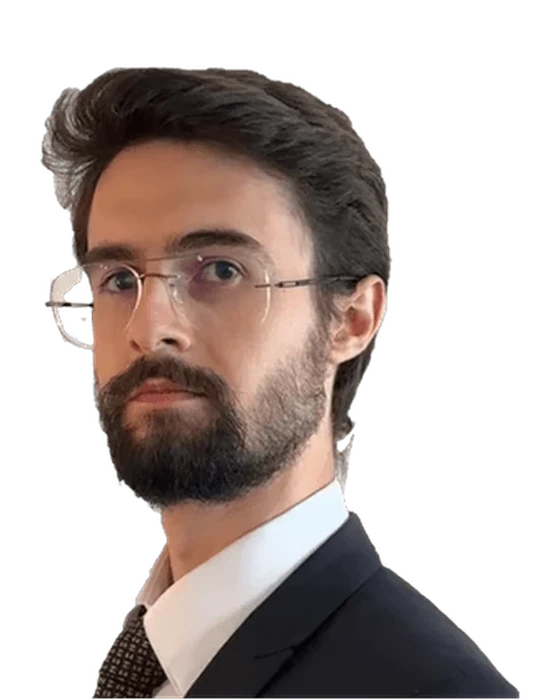
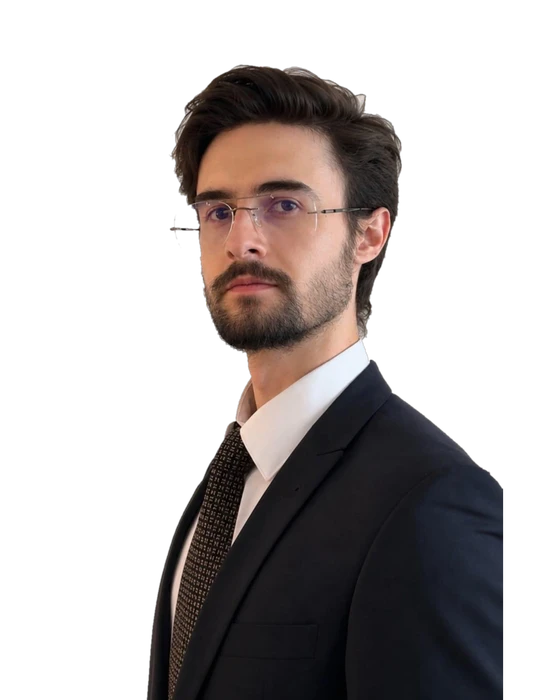
Europe locations map, new Reza portrait
Claude-Session: https://claude.ai/code/session_01TnWve3oiKZAnnVXSdp2RBk

diff --git a/projects.html b/projects.html
@@ -30,7 +30,7 @@
 <section class="sec" id="overview">
   <div class="wrap">
     <div class="proj rv">
-      <div class="map" id="mapbox"><canvas id="map" aria-label="Dot map of the Nordic region"></canvas><span class="ttl mono">Platform overview</span><div class="cap mono"><span>Multi-site Nordic platform</span><span>Fibre to European network corridors</span></div></div>
+      <div class="map" id="mapbox"><canvas id="map" aria-label="Dot map of Europe showing Viking Digital campus locations"></canvas><span class="ttl mono">Platform overview</span><div class="cap mono"><span>Multi-site Nordic platform</span><span>Fibre to European network corridors</span></div></div>
       <div class="ovw">
         <div class="spot"><svg class="ic"><use href="#i-map-pin-area"/></svg><h4>Multi-Site Nordic Platform</h4><p>A diversified portfolio of campuses across Norway and Finland, enabling scalable and flexible infrastructure deployment.</p></div>
         <div class="spot"><svg class="ic"><use href="#i-buildings"/></svg><h4>Large-Scale Development Capability</h4><p>Designed to support high-capacity, phased build-outs aligned with long-term hyperscale, AI and cloud demand.</p></div>
@@ -93,7 +93,7 @@
   </div>
 </footer>
 <div class="drawer" id="drawer" aria-hidden="true"><div class="scrim" id="scrim"></div><aside class="panel" role="dialog" aria-modal="true" aria-labelledby="d-name" style="position:relative"><button class="close" id="dclose" aria-label="Close"><svg class="ic"><use href="#i-x"/></svg></button><div id="dbody"></div></aside></div>
-<script>window.__IMG={'team-tor':'assets/team-tor.webp','team-venkat':'assets/team-venkat.webp','team-lauren':'assets/team-lauren.webp','team-david':'assets/team-david.webp','team-joakim':'assets/team-joakim.webp','team-bjorn':'assets/team-bjorn.webp','team-joe':'assets/team-joe.webp','team-reza':'assets/team-reza.webp','team-glauco':'assets/team-glauco.webp','team-knut':'assets/team-knut.webp'};window.__NORDIC="0000000000000000000000000000000000000000000000000000000000000000000000000000000000000000000000000000,0000000000000000000000000000000000000000000000000000000000000000000000000000000000000000000000000000,0000000000000000000000000000000000000000000000000000000000000000000000000000000000000000000000000000,0000000000000000000000000000000000000000000000000000000000000000000000000000000000000000000000000000,0000000000000000000000000000000000000000000000000000000000000000000000000000000000000000000000000000,0000000000000000000000000000000000000000000000000000000000000000100111000000000000000000000000000000,0000000000000000000000000000000000000000000000000000000000000010000010111100000000000000000000000000,0000000000000000000000000000000000000000000000000000000000000011010111111110000000000000000000000000,0000000000000000000000000000000000000000000000000000000000101011011111111111000000000000000000000000,0000000000000000000000000000000000000000000000000000000000000111011111111110000000000000000000000000,0000000000000000000000000000000000000000000000000000000000011111111111110000003300000000000000000000,0000000000000000000000000000000000000000000000000000000011101111111111111000003330000000000000000000,0000000000000000000000000000000000000000000000000000001001111111111111111111333330000033000000000000,0000000000000000000000000000000000000000000000000001000011111111111111111113333333033333333000000000,0000000000000000000000000000000000000000000000000011011111111111111111111113333333333333333330000000,0000000000000000000000000000000000000000000000000111111111111111111111111133333333333333333333330000,0000000000000000000000000000000000000000000000011011011111111111111111111333333333333333333333333330,0000000000000000000000000000000000000000000000011101111111111111111111111333333333333333333333333333,0000000000000000000000000000000000000000000010011111111111111111111111111333333333333333333333333333,0000000000000000000000000000000000000000000100001111112111111111111111111333333333333333333333333333,0000000000000000000000000000000000000000001100001111112211111111111111111333333333333333333333333333,0000000000000000000000000000000000000000011101011111112221111111111111111333333333333333333333333333,0000000000000000000000000000000000000000000110111211112222211111111111111133333333333333333333333333,0000000000000000000000000000000000000000011101011222222222222111111111111111333333333333333333333333,0000000000000000000000000000000000000001100011111222222222222111111111111111133333333333333333333333,0000000000000000000000000000000000000100000111121222222222222211111111111111133333333333333333333333,0000000000000000000000000000000000000000001111222222222222222211111111111111133333333333333333333333,0000000000000000000000000000000000000000001111222222222222222211111111111111333333330333333333333333,0000000000000000000000000000000000000000000111222222222222222211111111111111333333330000033333333333,0000000000000000000000000000000000000000011112222222222222222221111111111111333333333300000000000000,0000000000000000000000000000000000000000000112222222222222222221111111111111333333333330000000000000,0000000000000000000000000000000000000000111112222222222222222221111111111111133333333333300000000000,0000000000000000000000000000000000000001111112222222222222222222111111111111133333333333333000000000,0000000000000000000000000000000000000011111122222222222222222222111111111111113333333333333000000000,0000000000000000000000000000000000000111111222222222222222222221111111111111111333333333333000000000,0000000000000000000000000000000000000111111222222222222222222221111111111111111333333333333000000330,0000000000000000000000000000000000000101111222222222222222222222111111111111111133333333333000300333,0000000000000000000000000000000000011111122222222222222222222222111111111111111333333333333300000333,0000000000000000000000000000000000011111122222222222222222222222201111111111111333333333333330000033,0000000000000000000000000000000000011111122222222222222222220000000111111111111333333333333330000003,0000000000000000000000000000000000011111122222222222222222220000000011111111111133333333333330000000,0000000000000000000000000000000000111111222222222222222222200000000011111111111333333333333333030000,0000000000000000000000000000000000111111222222222222222222200000000011111111111113333333333333333300,0000000000000000000000000000000001111111222222222222222222000000001011111111111113333333333333333333,0000000000000000000000000000001111111112222222222222222222000000000111111111111113333333333333333333,0000000000000000000000000000000011111112222222222222222222000000001111111111111111333333333333333333,0000000000000000000000000000000111111122222222222222222222000000001111111111111111133333333333333333,0000000000000000000000000000001111111112222222222222222222200000011111111111111111133333333333333333,0000000000000000000000000000011111111112222222222222222222000000011111111111111111333333333333333333,0000000000000000000000000000111111111112222222222222222220000000111111111111111111133333333333333333,0000000000000000000000000001110111122222222222222222222220000000111111111111111111113333333333333333,0000000000000000000000000001110111122222222222222222222220000001111111111111111111111133333333333333,0000000000000000000000011011101111222222222222222222222200000011111111111111111111111113333333333333,0000000000000000000000001111111111222222222222222222220000000111111111111111111111111113333333333333,0000000000000000000001111111111112222222222222222222200000000111111111111111111111111113333333333333,0000000000000000000111011111111112222222222222222222000000111111111111111111111111111113333333333333,0000000000000000001111111111111112222222222222222220000000011111111111111111111111111133333333333333,0000000000000000111111111111111112222222222222222220000000011111111111111111111111111133333333333333,0000000000000011111111111111111112222222222222222000000000111111111111111111111111111333333333333333,0000000000000111111111111111111112222222222222222200000000111111111111111111111111111333333333333333,0000000000000111111111111111111112222222222222220000000000011111111111111111111111113333333333333333,0000000000001100111111111111111112222222222222220000000000011111111111111111111111113333333333333333,0000000000001111111111111111111112222222222222220000000000011111111111111111111111113333333333333333,0000000000001111111111111111111112222222222222220000000000011111111111111111111111133333333333333333,0000000000001111111111111111111112222222222222220000000000001111111111111111111111333333333333333333,0000000000001111111111111111111111222222222222200000000000001111111111111111111111333333333333333333,0000000000011111101111111111111111222222222222200000000000001111111111111111111113333333333333333333,0000000000011111111111111111111111222222222222200000000000001111111111111111111133333333333333333333,0000000000010111111111111111111111222222222222200000000000001111111111111111111130333333333333333333,0000000000111111111111111111111112222222222222200000000000001111111111111111111003333333333333333333,0000000000111100111111111111111112222222222222220000000000001111111111111111000000033333333333333333,0000000000001011111111111111111112222222222222220000000000011111111111111100000000000003333333333333,0000000000010111111111111111111112222222222222222200000000000101111111110000000000003333333333333333,0000000000101111111111111111111112222222222222222220000000000000111111000000000000033333333333333333,0000000000011111111111111111111112222222222222222220000000000001001100000000000003333333333333333333,0000000000111111111111111111111122222222222222222222000000000000010000000000000003333333333333333333,0000000000110111111111111111111222222222222222222222200000000000000000000333300333333333333333333333,0000000000001111111111111101112222222222222222222222000000000000000000033333333333333333333333333333,0000000000001111111111111101112222222222222222222220000000000000000003333333333333333333333333333333,0000000000111111111111111101112222222222222222222202000000000000000333333333333333333333333333333333,0000000000111111111111111000012222222222222222222220000000000000000333333333333333333333333333333333,0000000000011111111111000000212222222222222222222200000000000003330333333333333333333333333333333333,0000000000011111111111000000222222222222222222222000000000000000300033333333333333333333333333333333,0000000000001111111100000000222222222222222222200000000000000000333033333333333333333333333333333333,0000000000000111111000000000222222222222222222000000000000000033330033033333333333333333333333333333,0000000000000001100000000000022222222222222222000000000000000003330000033333333333333333333333333333,0000000000000000000000000000022222222222222222000000000000000000000000033333333333333333333333333333,0000000000000000000000000000022222222222222222000000000000000003000000033333333333333333333333333333,0000000000000000000000000000022222222222222222000000020000000000000000033333333333333333333333333333,0000000000000000000000022000002222222222222220000002200000000000300000033333333333333333333333333333,0000000000000000000000022000002222222222222220000002200000000033330000033333333333333333333333333333,0000000000000000000000222000002222222222222222000022200000000033333000033333333333333333333333333333,0000000000000000002222222000000222222222222220000022000000000333333300333333333333333333333333333333,0000000000000000022002220000000222222222222220200002000000000333333333333333333333333333333333333333,0000000000000000000222220000000222222222222220000000000000000333333333333333333333333333333333333333,0000000000000000022222220000000022222222222222000000000000003333333333333333333333333333333333333333,0000000000000000222222222200000002222222222202000000000000003333333333333333333333333303333333333333,0000000000000000222222222200000022222222222200000000000000003333333333333333333333330000033000333333,0000000000000000222222220000000222222222222200000000000000000333333333333333333333300000000000033333,0000000000000000222222200000002022222220202000000000000000000333333333333333333330000000000000033333,0000000000000000222222002000022022222200000000000000000000000333333333333333333300000000000000003333,0000000000000000222222000022022002222000000000000000000000000333333333333333333300000000000000003333,0000000000000000022220222022222202222000000000000000000000000333333333333333333330000000000000003333,0000000000000000022220222022220022222000000000000000000000000033333333333333333330000000000000000333,0000000000000000022200222022222000000000000000000000000000000033333333333333333000000000000000000333,0000000000000000022222000000200000000002000000000000000000000033333333333333330000000000000000000033,0000000000000000333330002000222000000002000000000000000000030033333333333333330000000000000000000000,0000000000000000003333000022200000000000000000000000000003333333333333333333330000000000000000000000,0000000000000000003330000000000000000000000000003333300003333333333333333333330000000000000000000000,0000000000000000033333300300000003300000000000333333000003333333333333333333300000000000000000000000";</script>
+<script>window.__IMG={'team-tor':'assets/team-tor.webp','team-venkat':'assets/team-venkat.webp','team-lauren':'assets/team-lauren.webp','team-david':'assets/team-david.webp','team-joakim':'assets/team-joakim.webp','team-bjorn':'assets/team-bjorn.webp','team-joe':'assets/team-joe.webp','team-reza':'assets/team-reza.webp','team-glauco':'assets/team-glauco.webp','team-knut':'assets/team-knut.webp'};window.__EU={"rows":"000000002222222222222222222222222222222222222222200022200000000000000000000000000000000000000000000000000000000000000000000000000000000222002222222222,000000000222222222222222222222222222222222222222220022200000000000000000000000000000000000000000000000000000000000000000000000000000000020002222222222,000000022222222222222222222222222222222222222222222002000000000000000000000000000000000000000000000000000000000000000000000000000000000000022222222222,000000022222222222222222222222222222222222222222222220000000000000000000000000000000000000000000000000000000000000000000000000000000000000022222222222,000000022222222222222222222222222222220022222222222000000000000000000000000000000000000000000000000000000000000000000000000000000000000000022222222222,000000222222222222222222202202222222000000002222000000000000000000000000000000000000000000000000000000000000101011000000000000000002222200222222222222,000002222222222222222220000022202200000000000000000000000000000000000000000000000000000000000000000000000001011111100000000000000000022000222222222222,000000222222222222222220000020000000000000000000000000000000000000000000000000000000000000000000000000000111011110002200000000000000022000022222222222,000000222222222222222000000000000000000000000000000000000000000000000000000000000000000000000000000000000011011111012222222220000000002000222222222222,000000222222222220200000000000000000000000000000000000000000000000000000000000000000000000000000000000001111111111122222222222222000002222222222222222,000000002222222220000000000000000000000000000000000000000000000000000000000000000000000000000000000001001111111111222222222222222200000222222222222222,000000022222222000000000000000000000000000000000000000000000000000000000000000000000000000000000000000111111111111222222222222222220000022222222222222,000000022222222000000000000000000000000000000000000000000000000000000000000000000000000000000000000001111111111111222222222222222220002022222222222222,000000022222200000000000000000000000000000000000000000000000000000000000000000000000000000000000000101111111111111222222222222222220022222222222222222,000000022222000000000000000000000000000000000000000000000000000000000000000000000000000000000000010011112111111111112222222222222220022222222222222222,000000002200000000000000000000000000000000000001000000000000000000000000000000000000000000000000101011122221111111111222222222222200222222222222222222,000000000000000000000000000000000000000000001111000000000000000000000000000000000000000000000000010012222222111111112222022222222000222222222222222222,000000000000000000000000000000000000000000001111000000000000000000000000000000000000000000000001101112222222111111112222220000000000222222222222222222,000000000000000000000000000000000000000000000001010110010000000000000000000000000000000000000010011222222222211111112222222200000000022222222222222222,000000000000000000000000000000000000000000011011111111111000000000000000000000000000000000000000001222222222211111111222222220000000022222222222222222,000000000000000000000000000000000000000000000111111111111000000000000000000000000000000000000000011222222222221111111122222220000222222222222222222222,000000000000000000000000000000000000000000000011111111111000000000000000000000000000000000000000111222222222211111111112222222000222222222222222222222,000000000000000000000000000000000000000000000111111111111100000000000000000000000000000000000000111222222222221111111112222222000002222222222222222222,000000000000000000000000000000000000000000001111111111111100000000000000000000000000000000000001112222222222222111111112222222202002222222222222222222,000000000000000000000000000000000000000000000011111111111000000000000000000000000000000000000000112222222222000001111112222222222222222222222222222222,000000000000000000000000000000000000000000000011111111110000000000000000000000000000000000000011122222222222000001111111222222222222222222222222222222,000000000000000000000000000000000000000000000000110000000000000000000000000000000000000000000111122222222220000011111111122222222222222222222222222222,000000000000000000000000000000000000000000000000000000000000000000000000000000000000000000000011122222222220000011111111122222222222222222222222222222,000000000000000000000000000000000000000000000000000000000000000000000000000000000000000000000011122222222222000111111111122222222222222222222222222222,000000000000000000000000000000000000000000000000000000000000000000000000000000000000000000000111122222222222000111111111111222222222222222222222222222,000000000000000000000000000000000000000000000000000000000000000000000000000000000000000000001111122222222220000111111111111122222222222222222222222222,000000000000000000000000000000000000000000000000000000000000000000000000000000000000000000001111122222222220001111111111111122222222222222222222222222,000000000000000000000000000000000000000000000000000000000000000000000000000000000000000000011112222222222200001111111111111222222222222222222222222222,000000000000000000000000000000000000000000000000000000000000000000000000000000000000000000011122222222222000011111111111111222222222222222222222222222,000000000000000000000000000000000000000000000000000000000000000000000000000000000000000001111122222222220000111111111111111222222222222222222222222222,000000000000000000000000000000000000000000000000000000000000000000000000000000000000000111111112222222200000011111111111112222222222222222222222222222,000000000000000000000000000000000000000000000000000000000000000000000000000000000000001111111112222222200000011111111111112222222222222222222222222222,000000000000000000000000000000000000000000000000000000000000000000000000000000000000011111111112222222200000011111111111122222222222222222222222222222,000000000000000000000000000000000000000000000000000000000000000020000000000000000000111111111112222222200000001111111111122222222222222222222222222222,000000000000000000000000000000000000000000000000000000000000000000000000000000000001011111111112222222200000001111111111102222222222222222222222222222,000000000000000000000000000000000000000000000000000000000000000000000000000000000001111111111112222222200000001111111100000002222222222222222222222222,000000000000000000000000000000000000000000000000000000000000000000000000000000000001111111111111222222200000001111111000000222222222222222222222222222,000000000000000000000000000000000000000000000000000000000000000000000000010000000001110111111112222222200000000111110000002222222222222222222222222222,000000000000000000000000000000000000000000000000000000000000000000000000100000000001111111111112222222222000000001000022222222222222222222222222222222,000000000000000000000000000000000000000000000000000000000000000000000000000000000001101111111111222222222200000000002222222222222222222222222222222222,000000000000000000000000000000000000000000000000000000000000000000000000000000000000111111111111222222222200000000022222222222222222222222222222222222,000000000000000000000000000000000000000000000000000000000000000000000000000000000001111111111112222222222200000000022222222222222222222222222222222222,000000000000000000000000000000000000000000000000000000000000000000000000000000000001111111110122222222222200000000022222222222222222222222222222222222,000000000000000000000000000000000000000000000000000000000000000000000000000000000001011111110112222222222000000002000222222222222222222222222222222222,000000000000000000000000000000000000000000000000000000000000001001111000000000000000111111100022222222200000000000000222222222222222222222222222222222,000000000000000000000000000000000000000000000000000000000000010001110000000000000000111111000022222222200000000000000222222222222222222222222222222222,000000000000000000000000000000000000000000000000000000000000001011100000000000000000011110000022222222200002000002200222222222222222222222222222222222,000000000000000000000000000000000000000000000000000000000000101011111100000000000000000000000022222222200020000022220222222222222222222222222222222222,000000000000000000000000000000000000000000000000000000000000000111111100000000000000000000000002222222220020000022222222222222222222222222222222222222,000000000000000000000000000000000000000000000000000000000000010111111100000000000000000000022002222222200000000022222222222222222222222222222222222222,000000000000000000000000000000000000000000000000000000000000001111111000000000000000000000220000222222200000000022222222222222222222222222222222222222,000000000000000000000000000000000000000000000000000000000000001111110000000000000000000002220000022222200000000022222222222222222222222222222222222222,000000000000000000000000000000000000000000000000000000000000010011000000000000000000000022222000022222200000000022222222222222222222222222222222222222,000000000000000000000000000000000000000000000000000000000000001011111000000000000000000022220000022220000000000002222222222222222222222222222222222222,000000000000000000000000000000000000000000000000000000000221100011111100000000000000000022220002222200000000000002222222222222222222222222222222222222,000000000000000000000000000000000000000000000000000000000211110111111100000000000000000022200022022200000000000002222222222222222222222222222222222222,000000000000000000000000000000000000000000000000000002222111110000111100000000000000000002202022000002000000000222222222222222222222222222222222222222,000000000000000000000000000000000000000000000000000002222222110000111100000000000000000002220202200000000022000222222222222222222222222222222222222222,000000000000000000000000000000000000000000000000000002222222000200111110000000000000000001110020001000002222222222222222222222222222222222222222222222,000000000000000000000000000000000000000000000000000000222222000000011111000000000000000000110000011000022222222222222222222222222222222222222222222222,000000000000000000000000000000000000000000000000000002222222000000111111000000000000000000111101111102222222222222222222222222222222222222222222222222,000000000000000000000000000000000000000000000000000000222222000111111111000000000000000001111111111122222222222222222222222222222222222222222222222222,000000000000000000000000000000000000000000000000000222222222000111111111100000000000001101111111111112222222222222222222222222222222222222222222222222,000000000000000000000000000000000000000000000000000222222220000011111111000000000002221111111111111112222222222222222222222222222222222222222222222222,000000000000000000000000000000000000000000000000000022200000000111111111111000000022221111111111111112222222222222222222222222222222222222222222222222,000000000000000000000000000000000000000000000000000000000000011111111111111000000222221111111111111112222222222222222222222222222222222222222222222222,000000000000000000000000000000000000000000000000000000000000010111111111111000000222221111111111111111222222222222222222222222222222222222222222222222,000000000000000000000000000000000000000000000000000000000000000010111111110000002222211111111111111111222222222222222222222222222222222222222222222222,000000000000000000000000000000000000000000000000000000000000001101111111100000022222111111111111111111222222222222222222222222222222222222222222222222,000000000000000000000000000000000000000000000000000000000000001111111111110000202222111111111111111111122222222222222222222222222222222222222222222222,000000000000000000000000000000000000000000000000000000000000111100110111100222222222111111111111111112122222222222222222222222222222222222222222222222,000000000000000000000000000000000000000000000000000000000000000000000000002222222222111111111111111122222222222222222222222222222222222222222222222222,000000000000000000000000000000000000000000000000000000000000000000000000002222222222111111111111111222222222222222222222222222222222222222222222222222,000000000000000000000000000000000000000000000000000000000000000000000000002222222222111111111111122222222222222222222222222222222222222222222222222222,000000000000000000000000000000000000000000000000000000000000000000020002222222222222111111111111112222222222222222222222222222222222222222222222222222,000000000000000000000000000000000000000000000000000000000000000000022202222222222222211111111111112222222222222222222222222222222222222222222222222220,000000000000000000000000000000000000000000000000000000000000020200022222222222222222211111111111111222222222222222222222222222222222222222222200222222,000000000000000000000000000000000000000000000000000000000000022222222222222222222222222111111111111122222222222222222222222222222222222222220022200222,000000000000000000000000000000000000000000000000000000000000222222222222222222222222222211111111111112222222222222222222222222222222222222220000002222,000000000000000000000000000000000000000000000000000000000000002222222222222222222222222211111111111122222222222222222222222222222222222222220000022222,000000000000000000000000000000000000000000000000000000000000000222222222222222222222222111111111111222222222222222222222222222222222222222200000000022,000000000000000000000000000000000000000000000000000000000000000022222222222222222222222111111111111222222222222222222222222222222222222222000000000022,000000000000000000000000000000000000000000000000000000000000000002222222222222222222222122211111222222222222222222222222222222222222222222200000000000,000000000000000000000000000000000000000000000000000000000000000002222222222222222222222222222222222222222222222222222222222222222222222222200000000000,000000000000000000000000000000000000000000000000000000000000000002222222222222222222222222222221112222222222222222222222222222222222222222000000000000,000000000000000000000000000000000000000000000000000000000000000000022222222222222222222222222211111112222222222222222222222222222222222222000000000000,000000000000000000000000000000000000000000000000000000000000000000022222222222222222222222222111111112222222222222222222222222222222222220000000000000,000000000000000000000000000000000000000000000000000000000000000000022222222222222222222211211111111112222222222222222222222222222222222222000000000000,000000000000000000000000000000000000000000000000000000000000000000022222222222222222211111111111111100222222222222222222222222222222222222000000000000,000000000000000000000000000000000000000000000000000000000000000000202222222222222222221111111111110002202222222222222222222222222222222220000000000000,000000000000000000000000000000000000000000000000000000000000000000222222222222222222221111111111110000200222222222222222222222222222222220000000000000,000000000000000000000000000000000000000000000000111000000000000000222222222222222222211111111111110000020222222222222222222222222222222220000000000002,000000000000000000000000000000000000000000000011111111000000000000222222222222222222211111111111110000000222222222222222222222222222222220000000000022,000000000000000000000000000000000000000000000011111111111000000002222222222222222222221110011111111000000022222222222222222222222222222220000000000222,000000000000000000000000000000000000000000000011111111111111110002222222222222222222222110000111111100000002222222222222222222222222222222000000000222,000000000000000000000000000000000000000000000011111111111111111112222222222222222222220000000011111111000000022222222222222222222222222222200000222222,000000000000000000000000000000000000000000000011111111111111111111222222222220000222200000000011111111000000000022222222222222222222222222222022222222,000000000000000000000000000000000000000000000011111111111111111111112222222200000002000000000011111111100000000000222222222222222222222222200002222222,000000000000000000000000000000000000000000000011111111111111111111111111222200000000000000020001111111100000000000002222222222222222222222000222222222,000000000000000000000000000000000000000000000011111111111111111111111111112100000000000000220000111111110000000000000222222222222222222220002222222222,000000000000000000000000000000000000000000000111111111111111111111111111111100000000000000220000011111111100100000000222222222222200000022222222222222,000000000000000000000000000000000000000000000111111111111111111111111111111100000000000000220000000111111111000000000222222222222000000222222222222222,000000000000000000000000000000000000000000001111111111111111111111111111110000000000000000220000000011111111110000000022222222222000000222222222222222,000000000000000000000000000000000000000000001111111111111111111111111110000000000000000000000000000000011111111100000222222222000200000022222222222222,000000000000000000000000000000000000000000011111111111111111111111111000000000000000000000010000000000001111111111000022222222200000000020222222222222,000000000000000000000000000000000000000000111111111111111111111111111000000000000000000001110000000000000011111000100002222222200000000000222222222222,000000000000000000000000000000000000000000111111111111111111111111110000000000000000000001111000000000000011111000100000222222202200000000222222222222,000000000000000000000000000000000000000000111111111111111111111111100000000000000000000001110000000000000000111000000000022222222000000022222222222222,000000000000000000000000000000000000000000011111111111111111111111000000001000000000000001111000000000000000011100000000000222222020000000002222222222,000000000000000000000000000000000000000000011111111111111111111111000000001100000000000001110000000000000000011100000000000222222220200000002222222222,000000000000000000000000000000000000000000011111111111111111111111000010000000000000000001110000000000000000001100000000000202000220000000000222222222,000000000000000000000000000000000000000000111111111111111111111111100000000000000000000000100000000000000000011000000000022022222000000000000002002220,000000000000000000000000000000000000000000111111111111111111111110000000000000000000000000000000000000000000011000000000002022220200000002000000000000,000000000000000000000000000000000000000000001001111111111111111110000000000000000000000000000000000000000000010000000000000002222000000000000002000000,000000000000000000000000000000000000000000000000111111111111111100000000000000000000000000000000000011111111000000000000000002222200000000000000000000,000000000000000000000000000000000000000000000000111111111111110000000000000000000000000000000000000011111111000000000000000000200200000000000000000000,000000000000000000000000000000000000000000000000011111111111100000000000000000000000000000000000000000111111000000000000000000000000000000000000000000,000000000000000000000000000000000000000000000000011000000000000000000000000000000000000000002000000000000111000000000000000000000000000000000000000000,000000000000000000000000000000000000000000000000000000000000000000000000000000000002002000222200200000000001000000000000000000000000220222020000000000,000000000000000000000000000000000000000000000000022000000000000000002222222222220222222222222222000000000000000000000000000000000000222222000000000000,000000000000000100000000000000000000000000000000222000000000000000222222222222222222222222222220000000000000000000000000000000000000000000000000000000,000000000000000000000000000000000000000000000002222200000000000222222222222222222222222222222220000000000000000000000000000000000000000000000000000000,000000000000000000000000000000000000000000000002222222222000002222222222222222222222222222222222000000000000000000000000000000000000000000000000000000,000000000000000000000000000000000000000000000022222222222222222222222222222222222222222222222222200000000000000000000000000000000000000000000000000000,000000000000000000000000000000000000000000000222222222222222222222222222222222222222222222222222200000000000000000000000000000000000000000000000000000","pins":[["Norway",0.5663,0.2932],["Norway",0.5811,0.2791],["Norway",0.5995,0.2673],["Norway",0.6135,0.2616],["Finland",0.7538,0.1992],["Finland",0.7459,0.2122],["Finland",0.7356,0.2377],["Spain",0.3228,0.7761],["Spain",0.3726,0.8065],["Spain",0.3989,0.8409],["Portugal",0.286,0.8607],["United Kingdom",0.4646,0.4751],["United Kingdom",0.4507,0.5352],["Germany",0.6096,0.5795],["Italy",0.641,0.7697],["Iceland",0.3464,0.1556]]};</script>
 <script src="app.js"></script>
 </body>
 </html>

diff --git a/app.js b/app.js
@@ -241,24 +241,38 @@ function Campus(cv,opt){
  onVisible(sec,v=>{vis=v;if(v&&!raf){cp.size();raf=requestAnimationFrame(loop)}});cp.size();setAct(0)})();
 
 /* ---------- Nordic dot map (Natural Earth 1:50m) ---------- */
-(function(){const c=$('#map');if(!c||!window.__NORDIC)return;const g=c.getContext('2d');const rows=window.__NORDIC.split(',');const NR=rows.length,NC=rows[0].length;
- let w,h,T=0,vis=false,mx=-999,my=-999,cell,offx,offy;
- function size(){const r=c.getBoundingClientRect();w=r.width;h=r.height;c.width=w*DPR;c.height=h*DPR;g.setTransform(DPR,0,0,DPR,0,0);cell=Math.min(w/NC,(h-40)/NR);offx=(w-cell*NC)/2;offy=(h-cell*NR)/2}
- const OSLO=[.275,.684];
- function draw(){g.clearRect(0,0,w,h);const pr=easeOut(T/1600);
-  for(let r=0;r<NR;r++){const row=rows[r];for(let q=0;q<NC;q++){const v=row.charCodeAt(q)-48;const px=offx+(q+.5)*cell,py=offy+(r+.5)*cell;
-   const dd=Math.hypot(px-mx,py-my),k=Math.max(0,1-dd/120);
-   const rv=clamp(pr*1.4-(q/NC)*.4-(r/NR)*.4);if(rv<=0)continue;
-   let a,col='174,187,245',rad=cell*.16;
-   if(v===1){a=.9;col='255,255,255';rad=cell*.24;const dc=Math.hypot(q-OSLO[0]*NC,r-OSLO[1]*NR),ring=(T/28)%90;if(Math.abs(dc-ring)<1.1){col='255,96,100';rad*=1.25}}
-   else if(v===2){a=.32}else if(v===3){a=.16}else{a=.05}
-   a=Math.min(1,a+k*.6);rad*=1+k*.8;
-   g.fillStyle=`rgba(${col},${a*rv})`;g.fillRect(px-rad,py-rad,rad*2,rad*2)}}
-  const o=[offx+OSLO[0]*NC*cell,offy+OSLO[1]*NR*cell];
-  g.strokeStyle=`rgba(255,96,100,${.95*pr})`;g.setLineDash([4,5]);g.lineDashOffset=-T/40;g.lineWidth=1.3;g.beginPath();g.moveTo(o[0],o[1]);g.lineTo(o[0]-cell*3,o[1]+cell*12);g.lineTo(o[0]-cell*1,h);g.stroke();g.setLineDash([]);
-  T+=16;if(!RM&&vis)requestAnimationFrame(draw)}
- c.parentElement.addEventListener('pointermove',e=>{const r=c.getBoundingClientRect();mx=e.clientX-r.left;my=e.clientY-r.top;if(RM)draw()});c.parentElement.addEventListener('pointerleave',()=>{mx=my=-999});
- size();addEventListener('resize',size);if(RM)T=99999;draw();onVisible(c,v=>{vis=v;if(v&&!RM)requestAnimationFrame(draw)})})();
+(function(){const c=$('#map');if(!c||!window.__EU)return;const g=c.getContext('2d'),box=c.parentElement;const rows=__EU.rows.split(','),NR=rows.length,NC=rows[0].length,PINS=__EU.pins;
+ // cluster centres per country, Norway is the hub the links start from
+ const CL={};PINS.forEach(([n,x,y])=>{(CL[n]=CL[n]||[0,0,0]);CL[n][0]+=x;CL[n][1]+=y;CL[n][2]++});for(const k in CL){CL[k][0]/=CL[k][2];CL[k][1]/=CL[k][2]}
+ const tip=document.createElement('div');tip.className='maptip mono';box.appendChild(tip);
+ let w,h,cell,ox,oy,T=0,t0=0,vis=false,raf=0,mx=-999,my=-999,hov=-1;
+ function size(){const r=c.getBoundingClientRect();w=r.width;h=r.height;c.width=w*DPR;c.height=h*DPR;g.setTransform(DPR,0,0,DPR,0,0);cell=Math.min(w/NC,(h-24)/NR);ox=(w-cell*NC)/2;oy=(h-cell*NR)/2+6}
+ const XY=(x,y)=>[ox+x*NC*cell,oy+y*NR*cell];
+ function draw(now){if(!t0)t0=now;T=RM?1e6:now-t0;g.clearRect(0,0,w,h);
+  const rv=q=>clamp((T-200)/1400*1.6-q*.6);
+  for(let r=0;r<NR;r++){const row=rows[r];for(let q=0;q<NC;q++){const v=row.charCodeAt(q)-48;if(!v)continue;const px=ox+(q+.5)*cell,py=oy+(r+.5)*cell;
+   const k=clamp((q/NC+r/NR)/2),a0=rv(k);if(a0<=0)continue;const near=Math.max(0,1-Math.hypot(px-mx,py-my)/110);
+   let a=v===1?.62:.2,rad=cell*(v===1?.2:.15);a=Math.min(1,a+near*.5);rad*=1+near*.7;
+   g.fillStyle=v===1?`rgba(255,255,255,${a*a0})`:`rgba(174,187,245,${a*a0})`;g.fillRect(px-rad,py-rad,rad*2,rad*2)}}
+  // links from the Norwegian hub
+  const hub=XY(CL.Norway[0],CL.Norway[1]),la=clamp((T-1500)/900);
+  if(la>0){let i=0;for(const k in CL){if(k==='Norway')continue;const d=XY(CL[k][0],CL[k][1]),mxp=(hub[0]+d[0])/2,myp=Math.min(hub[1],d[1])-Math.hypot(d[0]-hub[0],d[1]-hub[1])*.28;
+    const u=clamp(la*1.4-i*.08);i++;if(u<=0)continue;g.strokeStyle=`rgba(255,255,255,${.28})`;g.lineWidth=1;g.setLineDash([3,5]);g.lineDashOffset=-T/60;g.beginPath();
+    const N=40;for(let s=0;s<=N*u;s++){const t=s/N,bx=(1-t)*(1-t)*hub[0]+2*(1-t)*t*mxp+t*t*d[0],by=(1-t)*(1-t)*hub[1]+2*(1-t)*t*myp+t*t*d[1];s?g.lineTo(bx,by):g.moveTo(bx,by)}g.stroke();g.setLineDash([]);
+    if(u>=1){const t=((T/2600)+i*.17)%1,bx=(1-t)*(1-t)*hub[0]+2*(1-t)*t*mxp+t*t*d[0],by=(1-t)*(1-t)*hub[1]+2*(1-t)*t*myp+t*t*d[1];const gr=g.createRadialGradient(bx,by,0,bx,by,6);gr.addColorStop(0,'rgba(255,255,255,.9)');gr.addColorStop(1,'rgba(255,255,255,0)');g.fillStyle=gr;g.fillRect(bx-6,by-6,12,12)}}}
+  // pins drop in one after another, then breathe
+  PINS.forEach(([n,x,y],i)=>{const p=XY(x,y),s=easeBack(clamp((T-900-i*70)/500));if(s<=0)return;const on=hov===i;
+   const ph=((T/2400)+i*.13)%1;g.strokeStyle=`rgba(255,96,100,${(1-ph)*.7*s})`;g.lineWidth=1.2;g.beginPath();g.arc(p[0],p[1],5+ph*16,0,7);g.stroke();
+   const gl=g.createRadialGradient(p[0],p[1],0,p[0],p[1],14*s);gl.addColorStop(0,'rgba(238,43,47,.55)');gl.addColorStop(1,'rgba(238,43,47,0)');g.fillStyle=gl;g.fillRect(p[0]-14,p[1]-14,28,28);
+   g.fillStyle='#EE2B2F';g.beginPath();g.arc(p[0],p[1],(on?7:5)*s,0,7);g.fill();g.fillStyle='#fff';g.beginPath();g.arc(p[0],p[1],(on?2.6:1.8)*s,0,7);g.fill()});
+  raf=vis&&!RM?requestAnimationFrame(draw):0}
+ box.addEventListener('pointermove',e=>{const r=c.getBoundingClientRect();mx=e.clientX-r.left;my=e.clientY-r.top;
+  hov=-1;let best=14;PINS.forEach(([n,x,y],i)=>{const p=XY(x,y),d=Math.hypot(p[0]-mx,p[1]-my);if(d<best){best=d;hov=i}});
+  if(hov>=0){const p=XY(PINS[hov][1],PINS[hov][2]);tip.textContent=PINS[hov][0];tip.style.transform=`translate(${p[0]+14}px,${p[1]-30}px)`;tip.classList.add('on');box.style.cursor='pointer'}else{tip.classList.remove('on');box.style.cursor=''}
+  if(RM)draw(0)});
+ box.addEventListener('pointerleave',()=>{mx=my=-999;hov=-1;tip.classList.remove('on');if(RM)draw(0)});
+ size();addEventListener('resize',()=>{size();if(RM)draw(0)});if(RM){draw(0);return}
+ onVisible(c,v=>{vis=v;if(v&&!raf)raf=requestAnimationFrame(draw)})})();
 
 /* ---------- wave lines (compute card + aim card) ---------- */
 function waves(c,opt){const g=c.getContext('2d');let w,h,T=0,vis=false;

diff --git a/about.html b/about.html
@@ -102,7 +102,7 @@
   </div>
 </footer>
 <div class="drawer" id="drawer" aria-hidden="true"><div class="scrim" id="scrim"></div><aside class="panel" role="dialog" aria-modal="true" aria-labelledby="d-name" style="position:relative"><button class="close" id="dclose" aria-label="Close"><svg class="ic"><use href="#i-x"/></svg></button><div id="dbody"></div></aside></div>
-<script>window.__IMG={'team-tor':'assets/team-tor.webp','team-venkat':'assets/team-venkat.webp','team-lauren':'assets/team-lauren.webp','team-david':'assets/team-david.webp','team-joakim':'assets/team-joakim.webp','team-bjorn':'assets/team-bjorn.webp','team-joe':'assets/team-joe.webp','team-reza':'assets/team-reza.webp','team-glauco':'assets/team-glauco.webp','team-knut':'assets/team-knut.webp'};window.__NORDIC="";</script>
+<script>window.__IMG={'team-tor':'assets/team-tor.webp','team-venkat':'assets/team-venkat.webp','team-lauren':'assets/team-lauren.webp','team-david':'assets/team-david.webp','team-joakim':'assets/team-joakim.webp','team-bjorn':'assets/team-bjorn.webp','team-joe':'assets/team-joe.webp','team-reza':'assets/team-reza.webp','team-glauco':'assets/team-glauco.webp','team-knut':'assets/team-knut.webp'};window.__EU=null;</script>
 <script src="app.js"></script>
 </body>
 </html>

diff --git a/hero.html b/hero.html
@@ -154,7 +154,7 @@
   </div>
 </footer>
 <div class="drawer" id="drawer" aria-hidden="true"><div class="scrim" id="scrim"></div><aside class="panel" role="dialog" aria-modal="true" aria-labelledby="d-name" style="position:relative"><button class="close" id="dclose" aria-label="Close"><svg class="ic"><use href="#i-x"/></svg></button><div id="dbody"></div></aside></div>
-<script>window.__IMG={'team-tor':'assets/team-tor.webp','team-venkat':'assets/team-venkat.webp','team-lauren':'assets/team-lauren.webp','team-david':'assets/team-david.webp','team-joakim':'assets/team-joakim.webp','team-bjorn':'assets/team-bjorn.webp','team-joe':'assets/team-joe.webp','team-reza':'assets/team-reza.webp','team-glauco':'assets/team-glauco.webp','team-knut':'assets/team-knut.webp'};window.__NORDIC="";</script>
+<script>window.__IMG={'team-tor':'assets/team-tor.webp','team-venkat':'assets/team-venkat.webp','team-lauren':'assets/team-lauren.webp','team-david':'assets/team-david.webp','team-joakim':'assets/team-joakim.webp','team-bjorn':'assets/team-bjorn.webp','team-joe':'assets/team-joe.webp','team-reza':'assets/team-reza.webp','team-glauco':'assets/team-glauco.webp','team-knut':'assets/team-knut.webp'};window.__EU=null;</script>
 <script src="app.js"></script>
 </body>
 </html>

diff --git a/index.html b/index.html
@@ -153,7 +153,7 @@
   </div>
 </footer>
 <div class="drawer" id="drawer" aria-hidden="true"><div class="scrim" id="scrim"></div><aside class="panel" role="dialog" aria-modal="true" aria-labelledby="d-name" style="position:relative"><button class="close" id="dclose" aria-label="Close"><svg class="ic"><use href="#i-x"/></svg></button><div id="dbody"></div></aside></div>
-<script>window.__IMG={'team-tor':'assets/team-tor.webp','team-venkat':'assets/team-venkat.webp','team-lauren':'assets/team-lauren.webp','team-david':'assets/team-david.webp','team-joakim':'assets/team-joakim.webp','team-bjorn':'assets/team-bjorn.webp','team-joe':'assets/team-joe.webp','team-reza':'assets/team-reza.webp','team-glauco':'assets/team-glauco.webp','team-knut':'assets/team-knut.webp'};window.__NORDIC="";</script>
+<script>window.__IMG={'team-tor':'assets/team-tor.webp','team-venkat':'assets/team-venkat.webp','team-lauren':'assets/team-lauren.webp','team-david':'assets/team-david.webp','team-joakim':'assets/team-joakim.webp','team-bjorn':'assets/team-bjorn.webp','team-joe':'assets/team-joe.webp','team-reza':'assets/team-reza.webp','team-glauco':'assets/team-glauco.webp','team-knut':'assets/team-knut.webp'};window.__EU=null;</script>
 <script src="app.js"></script>
 </body>
 </html>

diff --git a/contact.html b/contact.html
@@ -63,7 +63,7 @@
   </div>
 </footer>
 <div class="drawer" id="drawer" aria-hidden="true"><div class="scrim" id="scrim"></div><aside class="panel" role="dialog" aria-modal="true" aria-labelledby="d-name" style="position:relative"><button class="close" id="dclose" aria-label="Close"><svg class="ic"><use href="#i-x"/></svg></button><div id="dbody"></div></aside></div>
-<script>window.__IMG={'team-tor':'assets/team-tor.webp','team-venkat':'assets/team-venkat.webp','team-lauren':'assets/team-lauren.webp','team-david':'assets/team-david.webp','team-joakim':'assets/team-joakim.webp','team-bjorn':'assets/team-bjorn.webp','team-joe':'assets/team-joe.webp','team-reza':'assets/team-reza.webp','team-glauco':'assets/team-glauco.webp','team-knut':'assets/team-knut.webp'};window.__NORDIC="";</script>
+<script>window.__IMG={'team-tor':'assets/team-tor.webp','team-venkat':'assets/team-venkat.webp','team-lauren':'assets/team-lauren.webp','team-david':'assets/team-david.webp','team-joakim':'assets/team-joakim.webp','team-bjorn':'assets/team-bjorn.webp','team-joe':'assets/team-joe.webp','team-reza':'assets/team-reza.webp','team-glauco':'assets/team-glauco.webp','team-knut':'assets/team-knut.webp'};window.__EU=null;</script>
 <script src="app.js"></script>
 </body>
 </html>

diff --git a/team.html b/team.html
@@ -55,7 +55,7 @@
   </div>
 </footer>
 <div class="drawer" id="drawer" aria-hidden="true"><div class="scrim" id="scrim"></div><aside class="panel" role="dialog" aria-modal="true" aria-labelledby="d-name" style="position:relative"><button class="close" id="dclose" aria-label="Close"><svg class="ic"><use href="#i-x"/></svg></button><div id="dbody"></div></aside></div>
-<script>window.__IMG={'team-tor':'assets/team-tor.webp','team-venkat':'assets/team-venkat.webp','team-lauren':'assets/team-lauren.webp','team-david':'assets/team-david.webp','team-joakim':'assets/team-joakim.webp','team-bjorn':'assets/team-bjorn.webp','team-joe':'assets/team-joe.webp','team-reza':'assets/team-reza.webp','team-glauco':'assets/team-glauco.webp','team-knut':'assets/team-knut.webp'};window.__NORDIC="";</script>
+<script>window.__IMG={'team-tor':'assets/team-tor.webp','team-venkat':'assets/team-venkat.webp','team-lauren':'assets/team-lauren.webp','team-david':'assets/team-david.webp','team-joakim':'assets/team-joakim.webp','team-bjorn':'assets/team-bjorn.webp','team-joe':'assets/team-joe.webp','team-reza':'assets/team-reza.webp','team-glauco':'assets/team-glauco.webp','team-knut':'assets/team-knut.webp'};window.__EU=null;</script>
 <script src="app.js"></script>
 </body>
 </html>

diff --git a/site.css b/site.css
@@ -712,3 +712,8 @@ footer{padding-top:80px;overflow:hidden}
 @keyframes dimg{from{opacity:0;transform:translateY(10px)}to{opacity:1;transform:none}}
 @media (max-width:420px){.drawer .dhead{grid-template-columns:112px minmax(0,1fr);gap:16px;padding:68px 20px 0}.drawer .body{padding-inline:20px}}
 .core .photo img{object-position:50% 0%}
+
+/* europe locations map */
+.proj .map{min-height:620px}
+.maptip{position:absolute;left:0;top:0;padding:6px 10px;background:#fff;color:var(--ink);font-size:11px;letter-spacing:.06em;text-transform:uppercase;border-radius:8px;box-shadow:0 10px 24px -12px rgba(0,0,0,.5);pointer-events:none;opacity:0;transition:opacity .2s;white-space:nowrap;z-index:3}
+.maptip.on{opacity:1}
